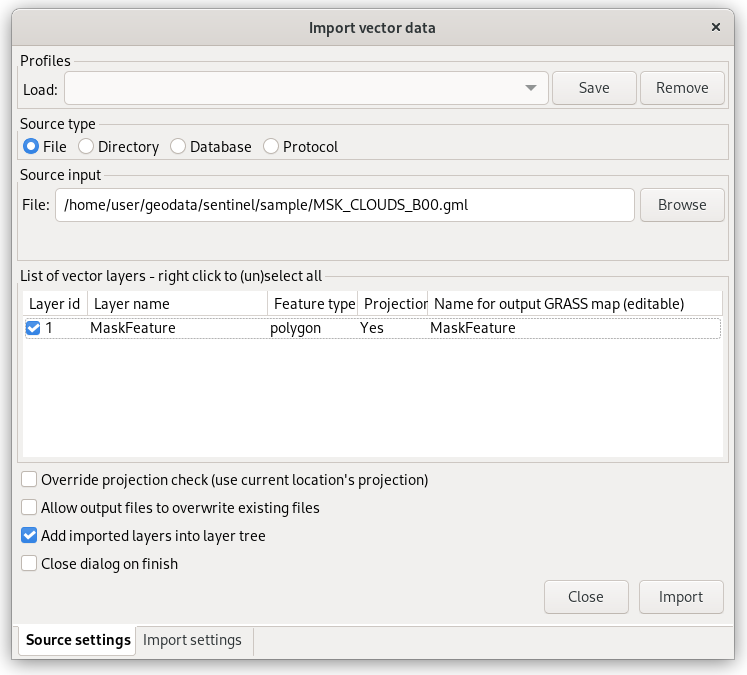
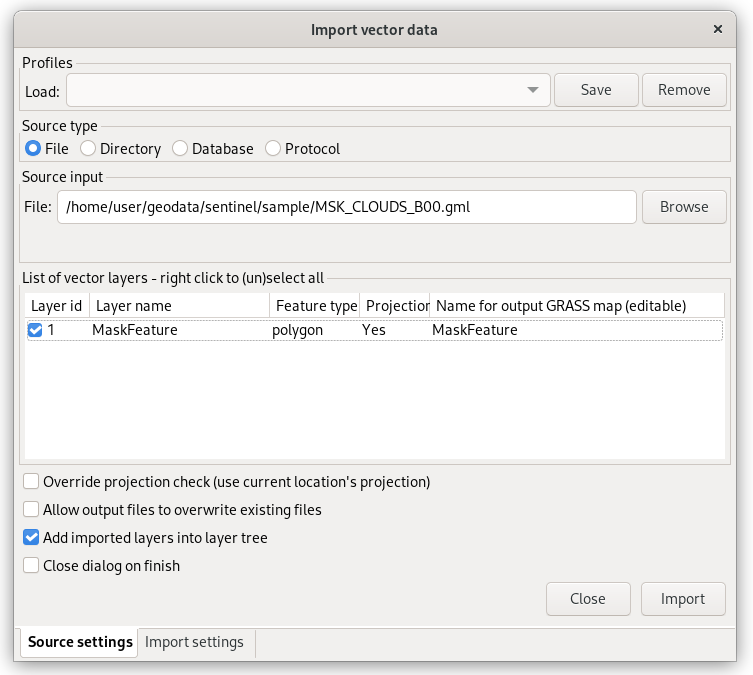
fix 03 vector dialog fig

Changed region(s): [[0.0, 0.0, 0.9853, 0.9956]]

diff --git a/units/03.rst b/units/03.rst
@@ -80,7 +80,7 @@ be imported into GRASS from the toolbar |grass-vector-import|
 :menuselection:`File --> Import vector data --> Simplified vector
 import with reprojection`).
 
-.. figure:: ../images/units/03/import-raster-dialog.png
+.. figure:: ../images/units/03/import-vector-dialog.png
 
    Select input vector file to be imported.
 
